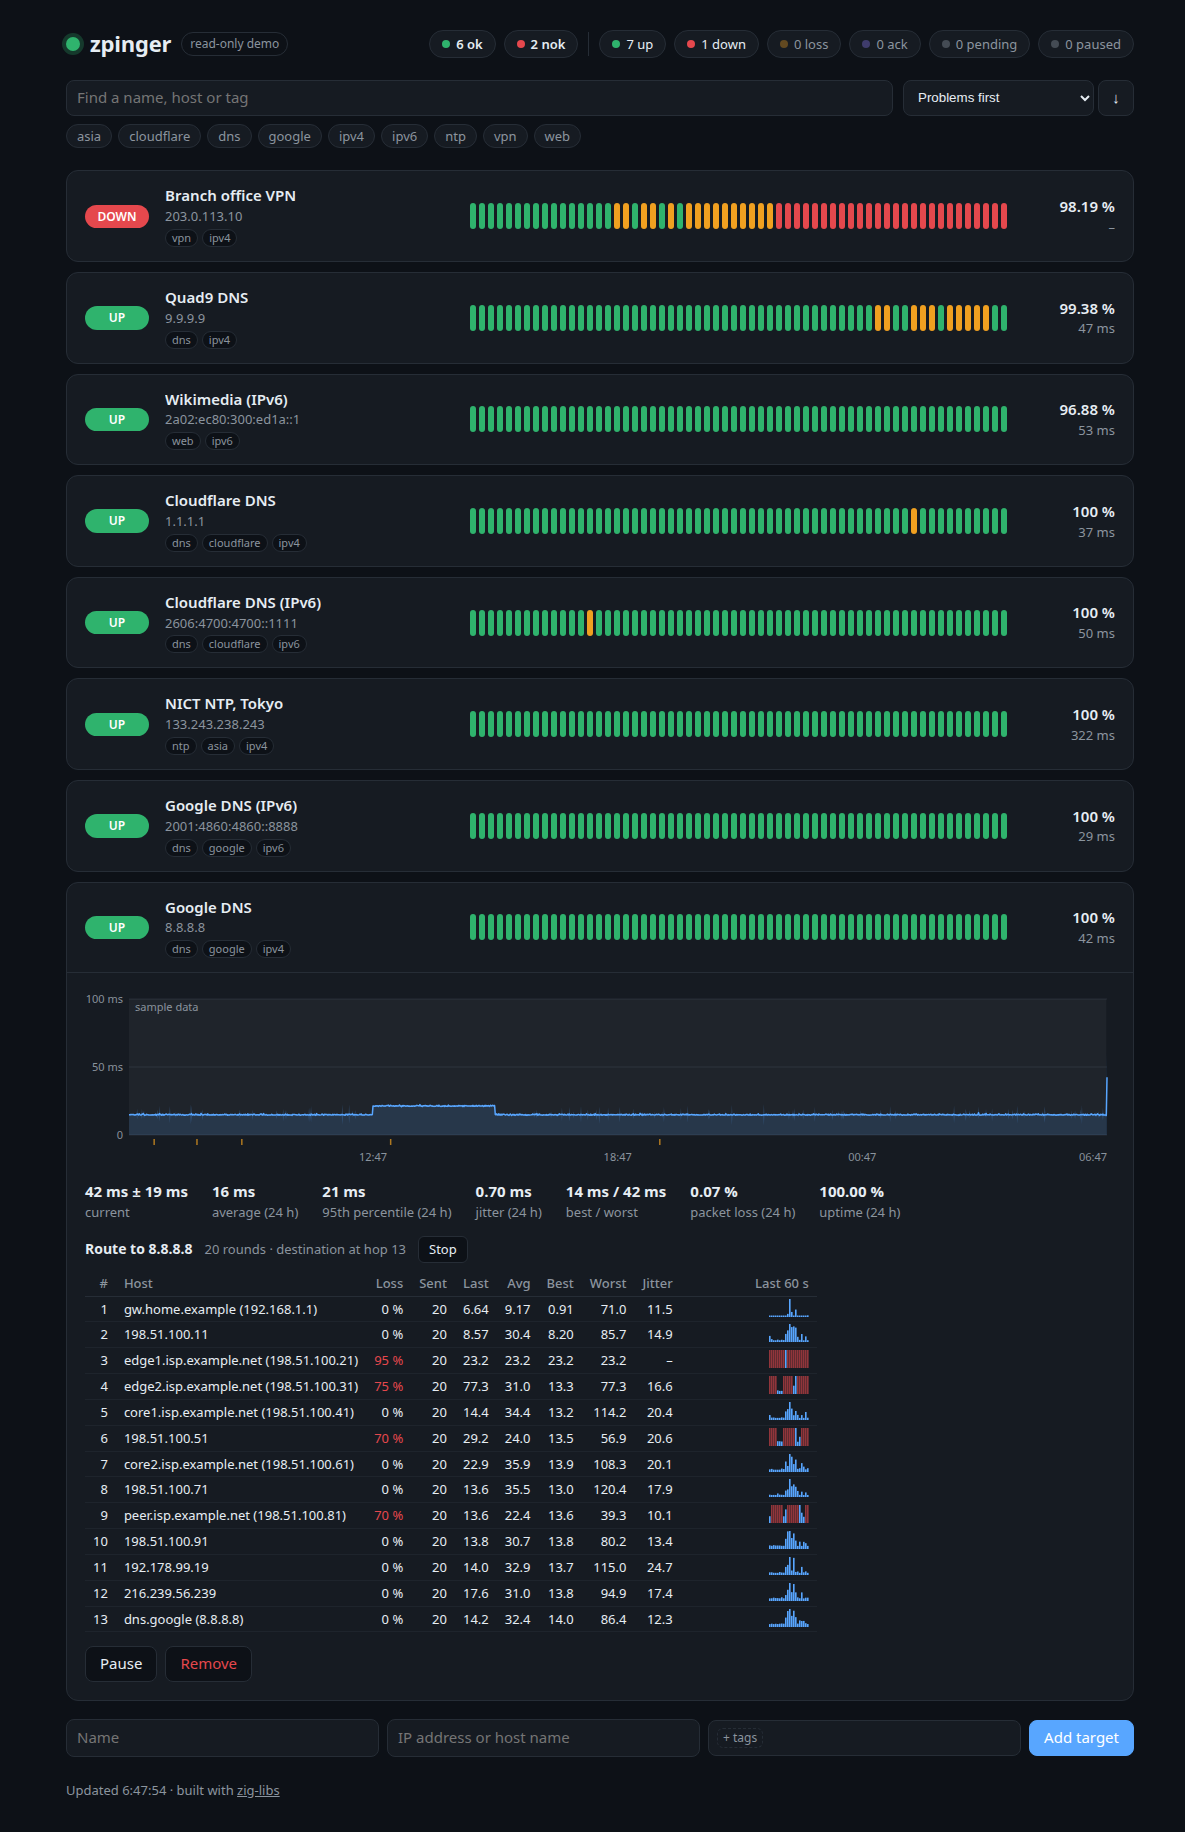
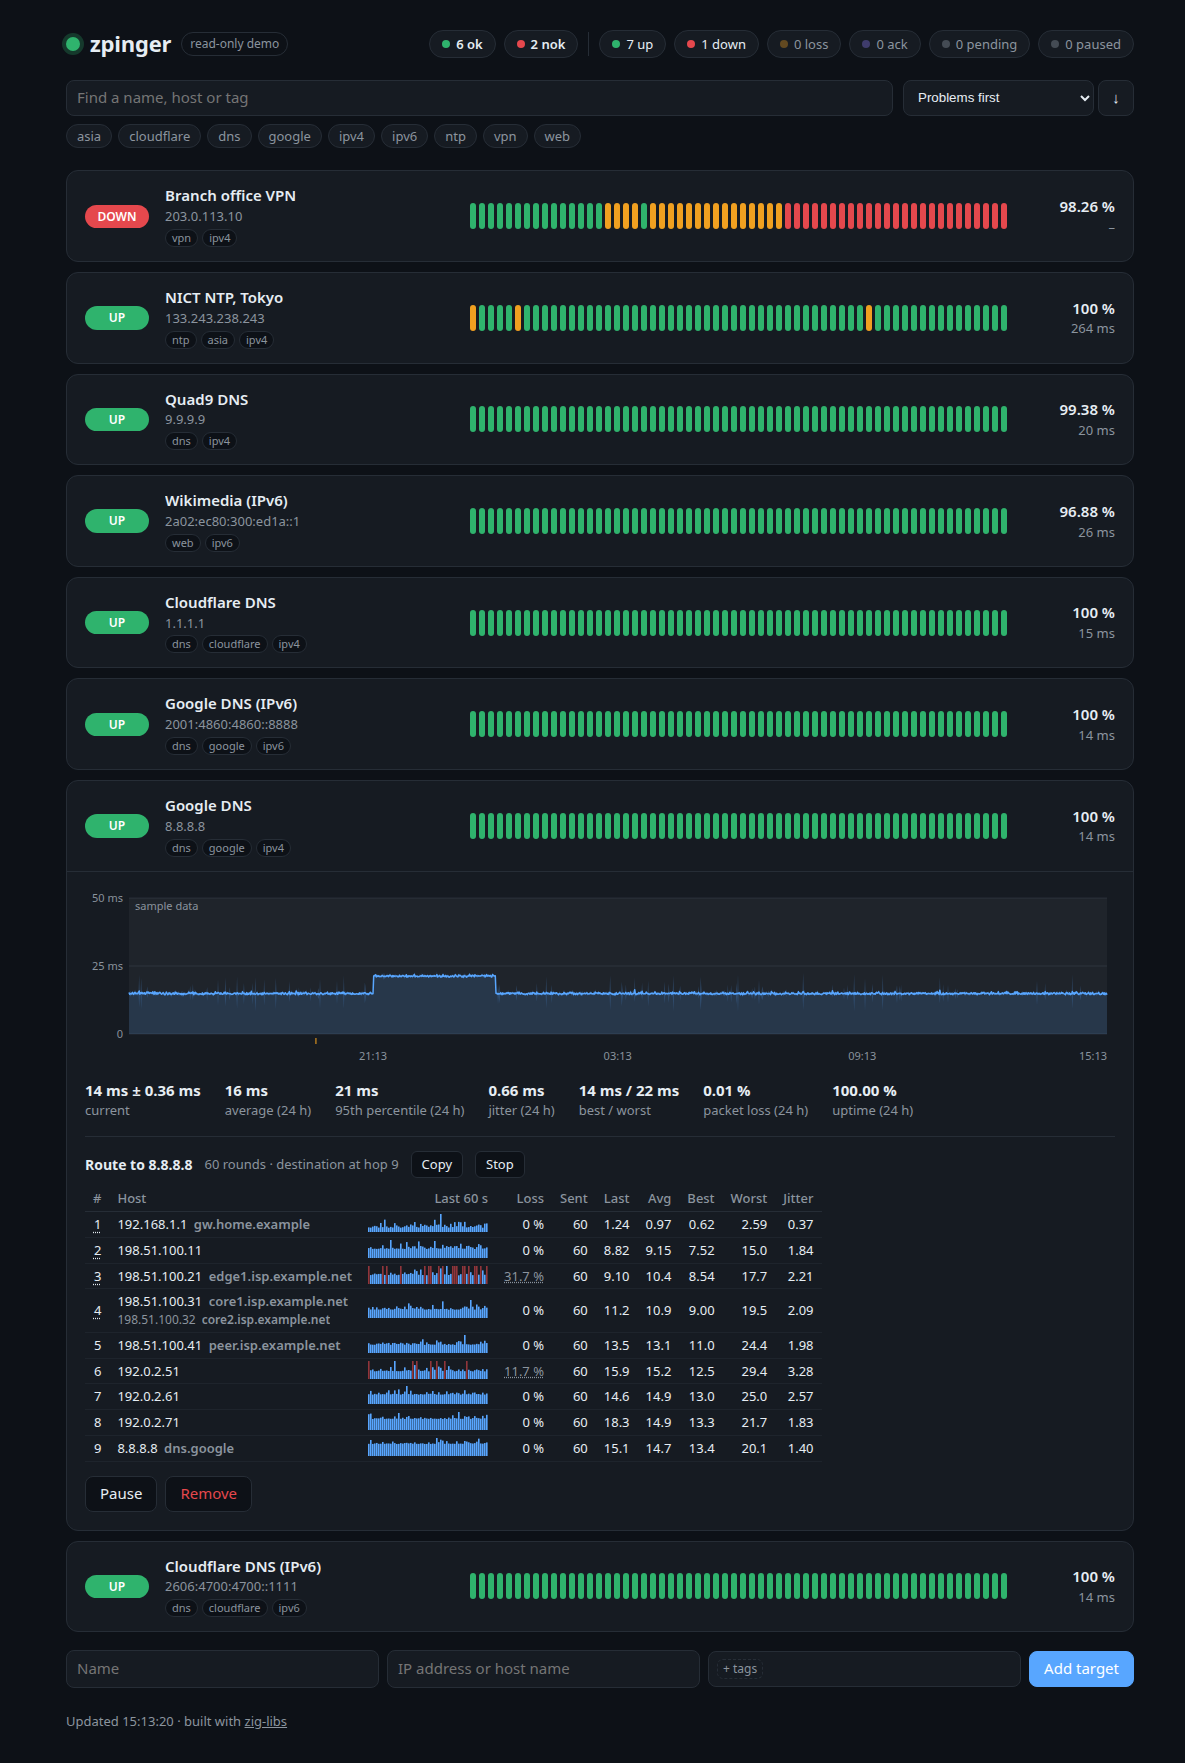
Repository for contributors: SECURITY, CONTRIBUTING, templates, Dependabot; badges, new screenshot
SECURITY.md points to private vulnerability reporting (enabled) and names
the attack surfaces; issue and PR templates; Dependabot keeps the
SHA-pinned actions current. README: CI, release, license and Zig badges,
a screenshot of the current trace panel (Copy, shared hops, grey loss)
with a caption that matches it.

diff --git a/SECURITY.md b/SECURITY.md
@@ -1,0 +1,55 @@
+# Security policy
+
+## Supported versions
+
+zpinger is pre-1.0 and ships from a single release line. Only the **latest
+release** (see the [releases page](https://github.com/zaxified/zpinger/releases))
+gets security fixes; there are no backports to earlier `v0.x` versions.
+
+## Reporting a vulnerability
+
+Please **do not open a public issue** for a suspected security problem.
+Use GitHub's private vulnerability reporting:
+
+1. Go to <https://github.com/zaxified/zpinger/security/advisories/new>.
+2. Describe the issue with a reproduction (the requests sent, or a target
+   list and history file) and the affected version (`zpinger --version`).
+
+A reply usually comes within 7 days. This is a small project, so there is
+no guaranteed response time; a confirmed issue is typically fixed within
+days to a couple of weeks, depending on severity. Once a fix is released,
+the GitHub Security Advisory is published with credit, unless you prefer
+to stay anonymous.
+
+## In scope
+
+zpinger is meant to face the internet (a read-only demo) or a LAN (a
+writable instance), so the realistic attack surfaces are:
+
+- **The HTTP server and API**: a request that crashes or hangs the daemon,
+  exhausts its memory, threads or connections past the documented limits,
+  or changes the target list on a read-only instance.
+- **The writable instance's guards**: getting around the Host header guard
+  (DNS rebinding) or the JSON content type check (cross-site requests).
+- **Live traces**: making zpinger send more probes than its limits allow
+  (a trace used as a traffic amplifier), or traces to hosts that are not
+  on the target list.
+- **The security log**: a request that forges a log line, or one that gets
+  around the rate limits and floods the journal.
+- **Files it reads**: a crafted target list or history file that crashes
+  the daemon instead of being refused (`.bad`).
+- **The Debian package**: the systemd unit's sandbox, the maintainer
+  scripts.
+
+## Out of scope
+
+- Anything that needs write access to zpinger's state directory or
+  configuration, or root on the host.
+- Denial of service by sheer volume that the documented limits already
+  bound (put a reverse proxy or CrowdSec in front for rates).
+- What a read-only instance publishes by design: target names and
+  addresses are public there (README, "Many viewers, and the open internet").
+- Issues in upstream dependencies (Zig's standard library, zig-libs):
+  report them there, unless zpinger's use turns a harmless bug into a
+  security issue.
+- Findings from automated scanners without a working reproduction.

diff --git a/CONTRIBUTING.md b/CONTRIBUTING.md
@@ -1,0 +1,46 @@
+# Contributing to zpinger
+
+Contributions are welcome, including fully agentic / AI-assisted pull
+requests. Small, focused changes are the easiest to review: if a PR
+touches more than one area, consider splitting it.
+
+## Ground rules
+
+- **Linux only, one static binary.** No libc, no C dependencies; the only
+  dependency is [zig-libs](https://github.com/zaxified/zig-libs). A
+  capability that belongs in a library goes to zig-libs (or a request in
+  its issues), not into a copy here.
+- **Unprivileged.** zpinger runs as a throwaway user with no capabilities
+  (ICMP through ping sockets); a change must not need root or
+  `CAP_NET_RAW`.
+- **Bounded.** Everything a client can trigger (connections, live traces,
+  log lines) has a limit; a new feature reachable from the web needs one
+  too, and a line in the README if it is a new option.
+- **The security log is a contract.** The README section "Security log"
+  lists every event and key; parsers (CrowdSec in `deploy/crowdsec/`)
+  match on it. Keep the field order; add new keys at the end of a line.
+- **English** for code comments, commit messages and documentation.
+- No personal information (names, e-mails, `/home/<user>` paths) in
+  committed files.
+
+## Checks before submitting
+
+```sh
+sh scripts/test.sh   # fmt check, unit tests, both .deb packages, smoke test
+```
+
+This is the same entry point CI uses. It downloads the pinned Zig
+(`.zigversion`) when none is installed and needs no sudo, but it needs
+unprivileged user namespaces (`unshare -Urn`): the unit tests and
+`scripts/smoke.sh` send real ICMP inside a private network namespace
+(`scripts/netns-run`) and touch no real network. `dpkg-deb` builds the
+packages.
+
+New behaviour needs a test: pure logic gets a unit test next to the code;
+anything on the wire gets a case in `scripts/smoke.sh`. For a UI change,
+`scripts/dev-instances.sh restart` runs local instances to look at it.
+
+## License
+
+By contributing you agree that your contribution is licensed under the
+project's MIT license (see LICENSE).

diff --git a/.github/PULL_REQUEST_TEMPLATE.md b/.github/PULL_REQUEST_TEMPLATE.md
@@ -1,0 +1,24 @@
+# Pull request
+
+## Summary
+
+<!-- One or two sentences: what does this change and why? Link issues with `Closes #N`. -->
+
+## Type of change
+
+- [ ] Bug fix
+- [ ] New feature (a new option, endpoint or page element)
+- [ ] Refactor / cleanup (no behavior change)
+- [ ] Documentation only
+- [ ] Build / CI / packaging
+
+## Test plan
+
+- [ ] `sh scripts/test.sh` is green
+- [ ] Added or updated unit tests / `scripts/smoke.sh` cases where it made sense
+- [ ] UI change: looked at in a browser (`scripts/dev-instances.sh restart`), desktop and phone width
+- [ ] New option, limit or log key: README updated (the "Security log" section is a contract)
+
+## Notes for reviewers
+
+<!-- Tricky bits, deliberate trade-offs, follow-up work left for later. -->
